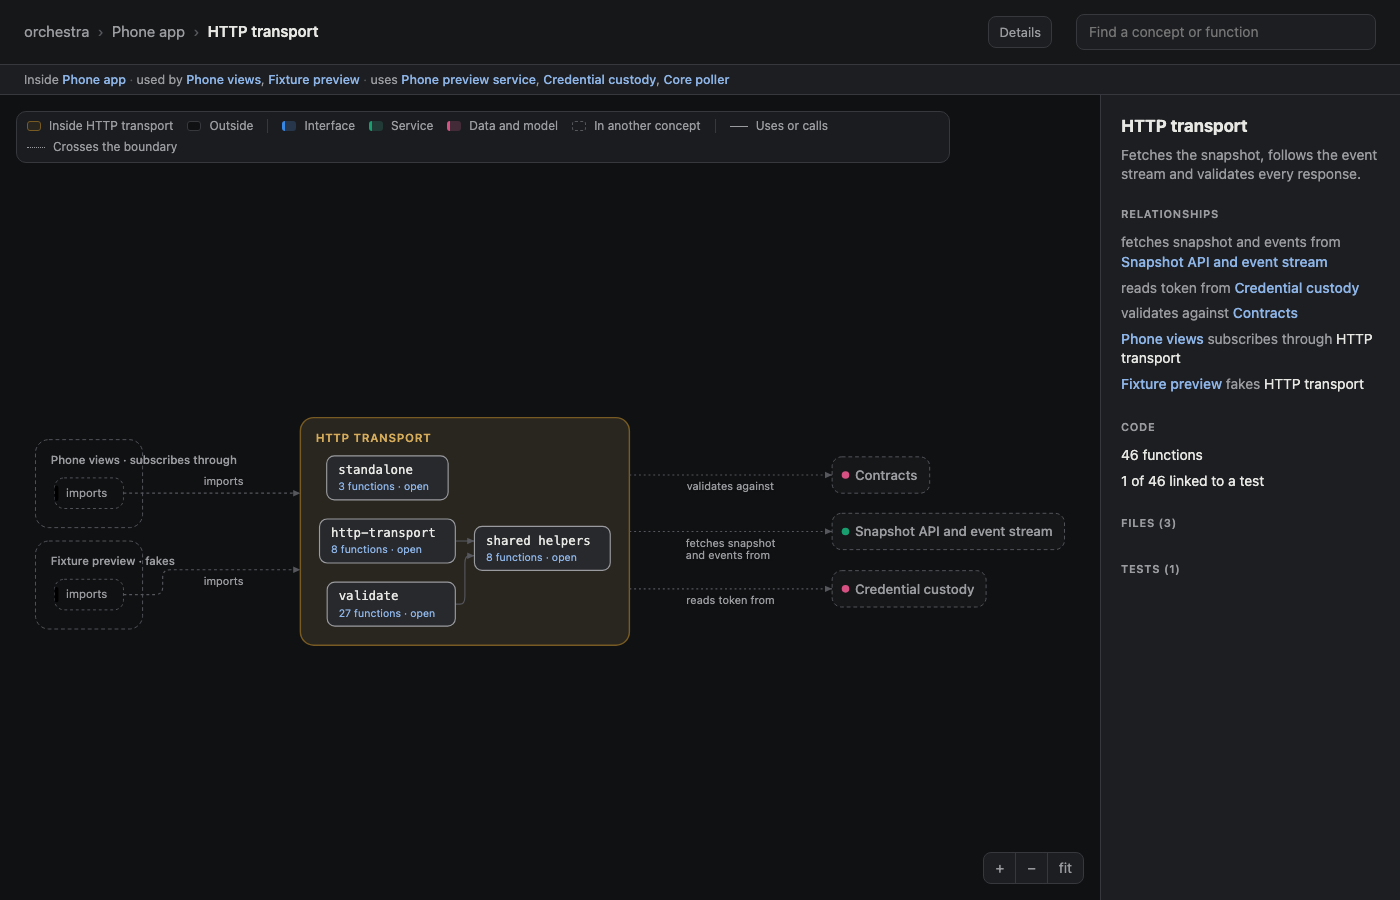
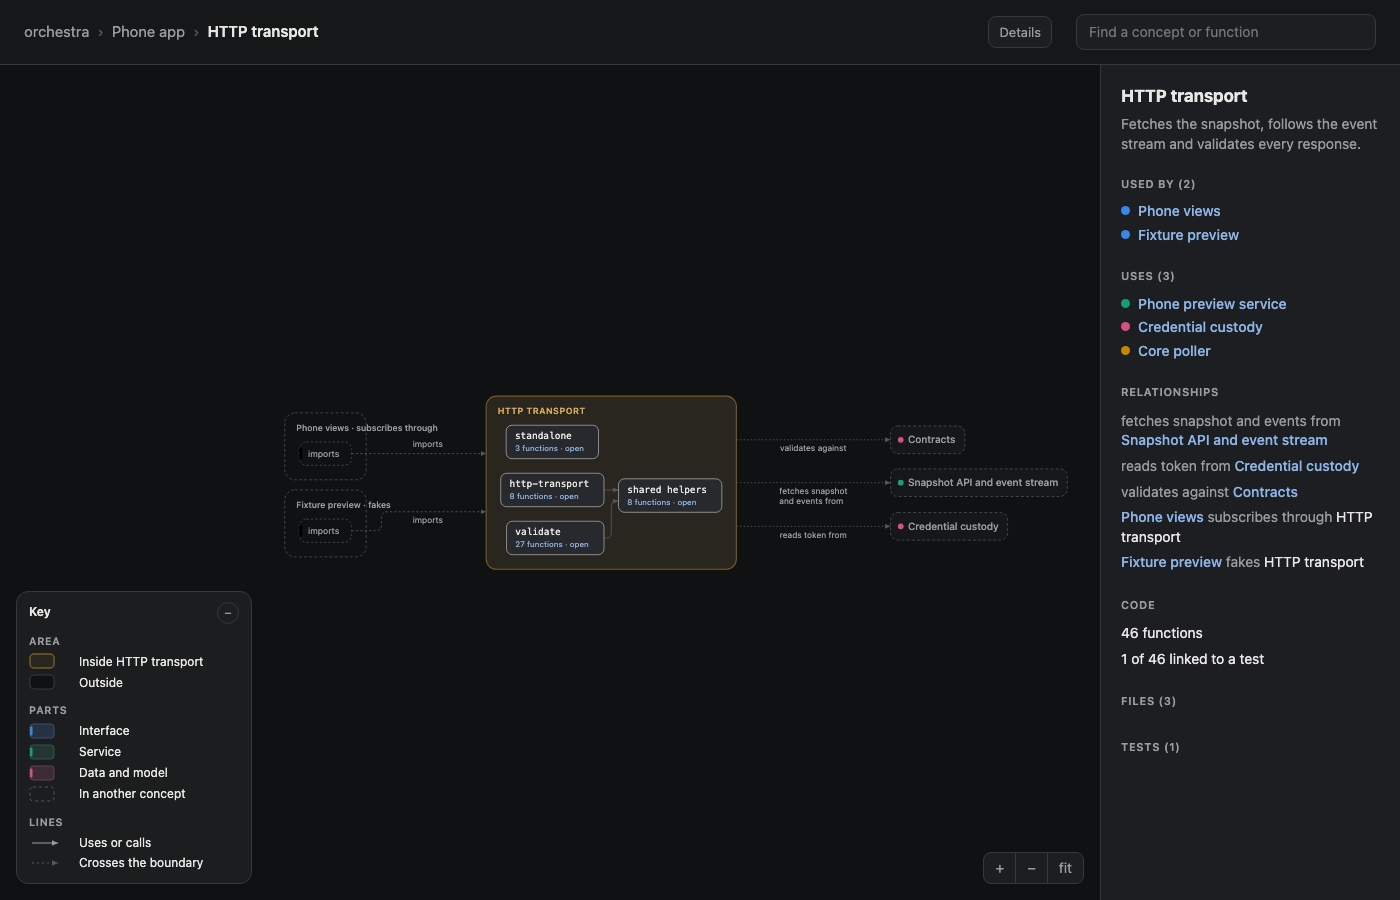
Fit concept map layouts to the viewport with placed outside boxes and the best scaling inner direction

diff --git a/mockup/app.js b/mockup/app.js
@@ -264,12 +264,12 @@ function drawConcepts(f, enter) {
       title: `${first.title}\n${second.title}`,
     });
   }
-  if (f) {
-    // An outside concept linked to several inner boxes the same way gets one line, with its labels
-    // on its own box so each label stays attached; hovering the box lights up the inner boxes.
+  {
+    // An outside concept or system linked to several inner boxes the same way gets one line, with its
+    // labels on its own box so each label stays attached; hovering the box lights up the inner boxes.
     const bundles = {};
     for (const e of elkEdges) {
-      if (e.cls !== "port") continue;
+      if (e.cls !== "port" && e.cls !== "integration") continue;
       const incoming = shown.has(e.b), other = incoming ? e.a : e.b;
       (bundles[other + (incoming ? ">in" : ">out")] ||= []).push(e);
     }
@@ -277,16 +277,20 @@ function drawConcepts(f, enter) {
       if (es.length < 2) continue;
       const incoming = key.endsWith(">in"), other = key.split(">")[0];
       const node = outsideNodes.find((n) => n.id === other);
+      const integration = es[0].cls === "integration";
       const labels = [...new Set(es.flatMap((e) => e.title.split("\n")))];
-      const text = labels.slice(0, 3).join(", ") + (labels.length > 3 ? ` +${labels.length - 3}` : "");
-      node.lines = wrap(text, 200, 12, 3);
+      const vias = [...new Set(es.flatMap((e) => (e.via || "").split(" · ")).filter(Boolean))];
+      const text = labels.slice(0, 3).join(", ") + (labels.length > 3 ? ` +${labels.length - 3}` : "") + (vias.length ? ` (${vias.join(", ")})` : "");
+      const ctx = node.cls.includes("ctx");
       node.w = Math.max(node.w, 232);
-      node.h = 40 + node.lines.length * 16;
+      const summary = ctx ? [] : wrap(byId[other].summary, node.w - 32, 12, 1);
+      node.lines = [...summary, ...wrap(text, node.w - 32, 12, 3)];
+      node.h = (ctx ? 40 : 46) + node.lines.length * 16;
       node.touches = [...(node.touches || []), ...es.map((e) => (incoming ? e.b : e.a))];
-      node.cls = node.cls.replace("ctx", "ctx bundled");
+      node.cls = node.cls.replace(ctx ? "ctx" : "node", ctx ? "ctx bundled" : "node bundled");
       const inner = es.map((e) => (incoming ? e.b : e.a));
       elkEdges = elkEdges.filter((e) => !es.includes(e));
-      elkEdges.push({ id: "b" + key, a: incoming ? other : inner[0], b: incoming ? inner[0] : other, cls: "port bundle", bundle: inner, title: labels.join("\n") });
+      elkEdges.push({ id: "b" + key, a: incoming ? other : inner[0], b: incoming ? inner[0] : other, cls: (integration ? "integration" : "port") + " bundle", bundle: inner, title: labels.join("\n") });
     }
   }
   const onClick = (id) => {
@@ -651,7 +655,8 @@ async function layout(nodes, edges, opt, onClick, enter, onDbl) {
       layoutOptions: { "elk.padding": "[top=40,left=20,bottom=20,right=20]" },
     } : {}),
   });
-  const graph = { id: "root", layoutOptions: elkOptions(opt), children: nodes.map(toElk), edges: edges.map(elkEdge) };
+  const a = availSize();
+  const graph = { id: "root", layoutOptions: { ...elkOptions(opt), "elk.aspectRatio": String(a.w / a.h) }, children: nodes.map(toElk), edges: edges.map(elkEdge) };
   let out;
   try { out = await elk.layout(graph); } catch (err) { return empty("Layout failed: " + err.message); }
   render(out, nodes, edges, onClick, enter, onDbl);
@@ -684,61 +689,133 @@ function labelBox(e) {
 }
 const elkEdge = (e) => ({ id: e.id, sources: [e.a], targets: [e.b], labels: e.text || e.via ? [{ text: e.text || "", ...labelBox(e) }] : [] });
 
-// Two passes, so the inside of a concept lays out on its own while its connections to the outside
-// enter on the left (incoming) and leave on the right (outgoing). Pass 1 lays out the inside; pass 2
-// places the outside around the boundary as one fixed box with a port at the height of each inner box.
+// ELK lays out the inside of a concept; the outside is placed here around it. Dependencies read left to
+// right: whatever calls in sits on the left, whatever is called on the right, each box level with the
+// inner boxes it connects to, and anything that does not fit beside the boundary goes in a row below
+// it. Labels sit next to the box their line ends at. The inside is tried unwrapped, wrapped into rows
+// (ELK wrapping at several aspect targets) and top to bottom; whichever scales largest into the stage
+// wins, with a preference for unwrapped left to right.
 async function layoutBridged(boundary, outside, edges, onClick, enter, onDbl) {
   const inner = new Set(boundary.children.map((n) => n.id));
   const insideEdges = edges.filter((e) => inner.has(e.a) && inner.has(e.b));
   const crossing = edges.filter((e) => inner.has(e.a) !== inner.has(e.b));
-  let p1, p2;
-  try {
-    p1 = await elk.layout({
-      id: "inner", layoutOptions: elkOptions({ dir: "RIGHT", layer: 30, gap: 24 }),
-      children: boundary.children.map((n) => ({ id: n.id, width: n.w, height: n.h })), edges: insideEdges.map(elkEdge),
-    });
-    const OX = 8, OY = 28, W = p1.width + 2 * OX, H = p1.height + OY + 8;
+  const OX = 8, OY = 28, GAP = 18, LANE = 18;
+  const avail = availSize();
+  const size = Object.fromEntries(outside.map((n) => [n.id, n]));
+  const otherEnd = (e) => (inner.has(e.b) ? e.a : e.b);
+  const side = {};
+  for (const e of crossing) if (inner.has(e.b)) side[e.a] = "left"; else side[e.b] ||= "right";
+  for (const n of outside) side[n.id] ||= "right";
+  const labelOf = (o) => Math.max(0, ...crossing.filter((e) => otherEnd(e) === o).map((e) => labelBox(e).width));
+
+  const place = (p1) => {
     const at = Object.fromEntries(p1.children.map((n) => [n.id, n]));
-    const used = {};
-    const ports = crossing.map((e, i) => {
-      const incoming = inner.has(e.b), n = at[incoming ? e.b : e.a];
-      const key = (incoming ? "W" : "E") + n.id, k = (used[key] = (used[key] || 0) + 1) - 1;
-      const mid = e.bundle ? e.bundle.reduce((t, id) => t + at[id].y + at[id].height / 2, 0) / e.bundle.length : n.y + n.height / 2;
-      const y = OY + mid + (k % 2 ? 1 : -1) * Math.ceil(k / 2) * 8;
-      return { id: "port" + i, width: 1, height: 1, x: incoming ? 0 : W - 1, y, layoutOptions: { "elk.port.side": incoming ? "WEST" : "EAST" } };
-    });
-    p2 = await elk.layout({
-      id: "root", layoutOptions: { ...elkOptions({ dir: "RIGHT", layer: 36, gap: 20 }), "elk.hierarchyHandling": "SEPARATE_CHILDREN" },
-      children: [
-        { id: "boundary", width: W, height: H, ports, layoutOptions: { "elk.portConstraints": "FIXED_POS" } },
-        ...outside.map((n) => ({ id: n.id, width: n.w, height: n.h })),
-      ],
-      edges: crossing.map((e, i) => elkEdge({ ...e, a: inner.has(e.a) ? "port" + i : e.a, b: inner.has(e.b) ? "port" + i : e.b })),
-    });
-    // Stitch into one result in root coordinates, as render() expects.
-    const b = p2.children.find((n) => n.id === "boundary");
-    const dx = b.x + OX, dy = b.y + OY;
+    const W = p1.width + 2 * OX, H = p1.height + OY + 8;
+    const ends = (e) => (e.bundle || [inner.has(e.b) ? e.b : e.a]).map((id) => at[id]);
+    const want = {};
+    for (const n of outside) {
+      const ns = crossing.filter((e) => otherEnd(e) === n.id).flatMap(ends);
+      want[n.id] = ns.length
+        ? { x: OX + ns.reduce((t, k) => t + k.x + k.width / 2, 0) / ns.length, y: OY + ns.reduce((t, k) => t + k.y + k.height / 2, 0) / ns.length }
+        : { x: W / 2, y: H / 2 };
+    }
+    const below = [];
+    const column = (ids) => {
+      ids.sort((p, q) => want[p].y - want[q].y);
+      const out = [];
+      let y = 0;
+      for (const id of ids) {
+        const top = Math.max(want[id].y - size[id].h / 2, y);
+        if (top + size[id].h > H + 40 && out.length) { below.push(id); continue; }
+        out.push([id, top]);
+        y = top + size[id].h + GAP;
+      }
+      return out;
+    };
+    const left = column(outside.filter((n) => side[n.id] === "left").map((n) => n.id));
+    const right = column(outside.filter((n) => side[n.id] === "right").map((n) => n.id));
+    const colW = (list) => Math.max(0, ...list.map(([id]) => size[id].w));
+    const labW = (list) => Math.max(0, ...list.map(([id]) => labelOf(id)));
+    const bx = left.length ? colW(left) + labW(left) + 2 * LANE + 8 : 0, by = 0;
+    const pos = {};
+    for (const [id, top] of left) pos[id] = { x: bx - 2 * LANE - 8 - labW(left) - size[id].w, y: top };
+    const rx = bx + W + (right.length ? labW(right) + 2 * LANE + 8 : 0);
+    for (const [id, top] of right) pos[id] = { x: rx, y: top };
+    below.sort((p, q) => want[p].x - want[q].x);
+    let x = bx;
+    const rowY = by + H + 70;
+    for (const id of below) {
+      const lx = Math.max(bx + want[id].x - size[id].w / 2, x);
+      pos[id] = { x: lx, y: rowY };
+      x = lx + Math.max(size[id].w, labelOf(id) + 12) + GAP;
+    }
+    const all = outside.map((n) => [pos[n.id].x + size[n.id].w, pos[n.id].y + size[n.id].h]);
+    const width = Math.max(bx + W, ...all.map((p) => p[0])), height = Math.max(by + H, ...all.map((p) => p[1]));
+    return { p1, at, W, H, bx, by, pos, below: new Set(below), width, height };
+  };
+
+  const layoutInside = (dir, wrapping, ratio) => elk.layout({
+    id: "inner",
+    layoutOptions: { ...elkOptions({ dir, layer: 30, gap: 24 }), ...(wrapping ? { "elk.layered.wrapping.strategy": wrapping, "elk.aspectRatio": String((avail.w / avail.h) * ratio) } : {}) },
+    children: boundary.children.map((n) => ({ id: n.id, width: n.w, height: n.h })), edges: insideEdges.map(elkEdge),
+  });
+
+  try {
+    const tries = [];
+    // Bias: unwrapped left to right is preferred; top to bottom must scale 10% better and wrapping
+    // (which adds long return loops between rows) 25% better before either is chosen.
+    const modes = [["RIGHT", null, 1, 1], ...["MULTI_EDGE", "SINGLE_EDGE"].flatMap((w) => [0.5, 0.8, 1.1].map((r) => ["RIGHT", w, r, 1.25])), ["DOWN", null, 1, 1.1]];
+    for (const [dir, w, r, bias] of modes) {
+      try { tries.push({ dir, wrapping: w, ratio: r, bias, ...place(await layoutInside(dir, w, r)) }); } catch { /* a wrapping mode ELK cannot apply here */ }
+    }
+    const score = (t) => Math.min(avail.w / t.width, avail.h / t.height) / t.bias; // must beat unwrapped by its bias
+    const best = tries.reduce((p, q) => (score(q) > score(p) ? q : p));
+    const { p1, at, W, H, bx, by, pos } = best;
+    document.getElementById("diagram").dataset.layout = best.dir === "DOWN" ? "down" : best.wrapping ? `${best.wrapping} ${best.ratio}` : "unwrapped";
+
+    const dx = bx + OX, dy = by + OY;
     const shift = (p) => ({ x: p.x + dx, y: p.y + dy });
-    const outEdges = [
-      ...p1.edges.map((e) => ({ ...e, sections: (e.sections || []).map((s) => ({ startPoint: shift(s.startPoint), endPoint: shift(s.endPoint), bendPoints: (s.bendPoints || []).map(shift) })), labels: (e.labels || []).map((l) => ({ ...l, ...shift(l) })) })),
-      ...p2.edges.map((e, i) => {
-        const ce = crossing[i], incoming = inner.has(ce.b), n = at[incoming ? ce.b : ce.a];
-        const s = e.sections[0];
-        // Carry the stub from the port on to the inner box's side, unless another box is in the way;
-        // then it stops at the boundary (hovering the box still highlights it).
-        const y = incoming ? s.endPoint.y - dy : s.startPoint.y - dy;
-        const [x0, x1] = incoming ? [0, n.x] : [n.x + n.width, p1.width + OX];
-        const blocked = ce.bundle || p1.children.some((k) => k !== n && y > k.y - 4 && y < k.y + k.height + 4 && k.x < x1 && k.x + k.width > x0);
-        const sections = blocked ? e.sections : [incoming
-          ? { startPoint: s.startPoint, bendPoints: [...(s.bendPoints || []), s.endPoint], endPoint: { x: dx + n.x, y: s.endPoint.y } }
-          : { startPoint: { x: dx + n.x + n.width, y: s.startPoint.y }, bendPoints: [s.startPoint, ...(s.bendPoints || [])], endPoint: s.endPoint }];
-        return { ...e, id: ce.id, sections };
-      }),
-    ];
+    const used = {};
+    const crossEdges = crossing.map((e) => {
+      const o = otherEnd(e), incoming = inner.has(e.b), box = { ...pos[o], w: size[o].w, h: size[o].h };
+      const ns = (e.bundle || [incoming ? e.b : e.a]).map((id) => at[id]);
+      const n = ns[0], lb = labelBox(e);
+      const cy = box.y + box.h / 2, cx = box.x + box.w / 2;
+      let pts, label;
+      if (best.below.has(o)) {
+        // Below the boundary: drop from the inner box's column, then across to the box.
+        const sx = dx + ns.reduce((t, k) => t + k.x + k.width / 2, 0) / ns.length, edgeY = by + H, laneY = edgeY + 22;
+        pts = [{ x: sx, y: edgeY }, { x: sx, y: laneY }, { x: cx, y: laneY }, { x: cx, y: box.y }];
+        if (incoming) pts.reverse();
+        label = { x: cx + 6, y: box.y - lb.height - 4 };
+      } else {
+        const key = (incoming ? "W" : "E") + n.id, k = (used[key] = (used[key] || 0) + 1) - 1;
+        const py = dy + ns.reduce((t, q) => t + q.y + q.height / 2, 0) / ns.length + (k % 2 ? 1 : -1) * Math.ceil(k / 2) * 8;
+        const edgeX = incoming ? bx : bx + W, laneX = incoming ? bx - LANE : bx + W + LANE;
+        // Run on into the inner box when nothing else is in the way.
+        const y0 = py - dy, [x0, x1] = incoming ? [0, n.x] : [n.x + n.width, p1.width + OX];
+        const blocked = e.bundle || p1.children.some((q) => q !== n && y0 > q.y - 4 && y0 < q.y + q.height + 4 && q.x < x1 && q.x + q.width > x0);
+        const innerX = incoming ? dx + n.x : dx + n.x + n.width, boxX = incoming ? box.x + box.w : box.x;
+        pts = [...(blocked ? [] : [{ x: innerX, y: py }]), { x: edgeX, y: py }, { x: laneX, y: py }, { x: laneX, y: cy }, { x: boxX, y: cy }];
+        if (incoming) pts.reverse();
+        label = { x: incoming ? box.x + box.w + 4 : box.x - lb.width - 4, y: cy - lb.height - 2 };
+      }
+      pts = pts.filter((p, i) => i === 0 || p.x !== pts[i - 1].x || p.y !== pts[i - 1].y);
+      return {
+        id: e.id, sections: [{ startPoint: pts[0], endPoint: pts[pts.length - 1], bendPoints: pts.slice(1, -1) }],
+        labels: e.text || e.via ? [{ text: e.text || "", ...label, ...lb }] : [],
+      };
+    });
     const out = {
-      width: p2.width, height: p2.height, edges: outEdges,
-      children: p2.children.map((n) => n.id !== "boundary" ? n
-        : { ...n, children: p1.children.map((k) => ({ ...k, x: k.x + OX, y: k.y + OY })) }),
+      width: best.width, height: best.height,
+      edges: [
+        ...p1.edges.map((e) => ({ ...e, sections: (e.sections || []).map((q) => ({ startPoint: shift(q.startPoint), endPoint: shift(q.endPoint), bendPoints: (q.bendPoints || []).map(shift) })), labels: (e.labels || []).map((l) => ({ ...l, ...shift(l) })) })),
+        ...crossEdges,
+      ],
+      children: [
+        { id: "boundary", x: bx, y: by, width: W, height: H, children: p1.children.map((k) => ({ ...k, x: k.x + OX, y: k.y + OY })) },
+        ...outside.map((n) => ({ id: n.id, x: pos[n.id].x, y: pos[n.id].y, width: n.w, height: n.h })),
+      ],
     };
     render(out, [boundary, ...outside], edges, onClick, enter, onDbl);
   } catch (err) { return empty("Layout failed: " + err.message); }
@@ -1107,6 +1184,12 @@ let anim = null;
 function setCam(c) {
   cam = c;
   document.getElementById("diagram").setAttribute("viewBox", `${c.x} ${c.y} ${c.w} ${c.h}`);
+}
+
+// The space a fitted map gets: the stage less padding and the open key card.
+function availSize() {
+  const s = stageSize();
+  return { w: s.w - 48 - (keyCollapsed() ? 0 : 252), h: s.h - 48 };
 }
 
 function stageSize() {
